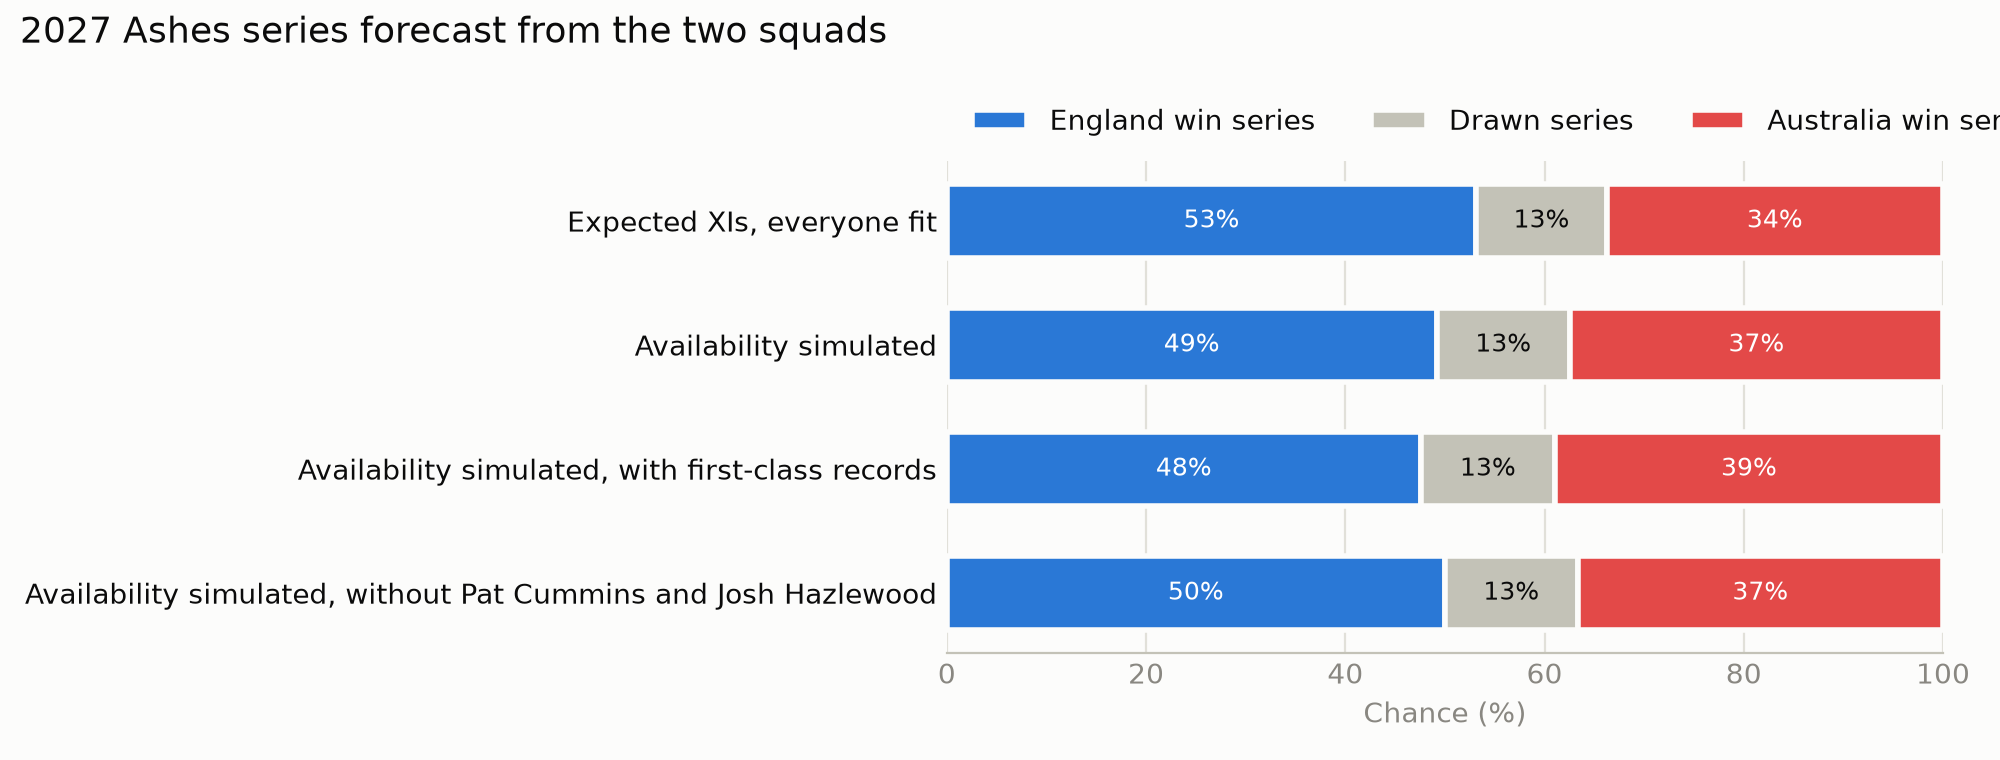
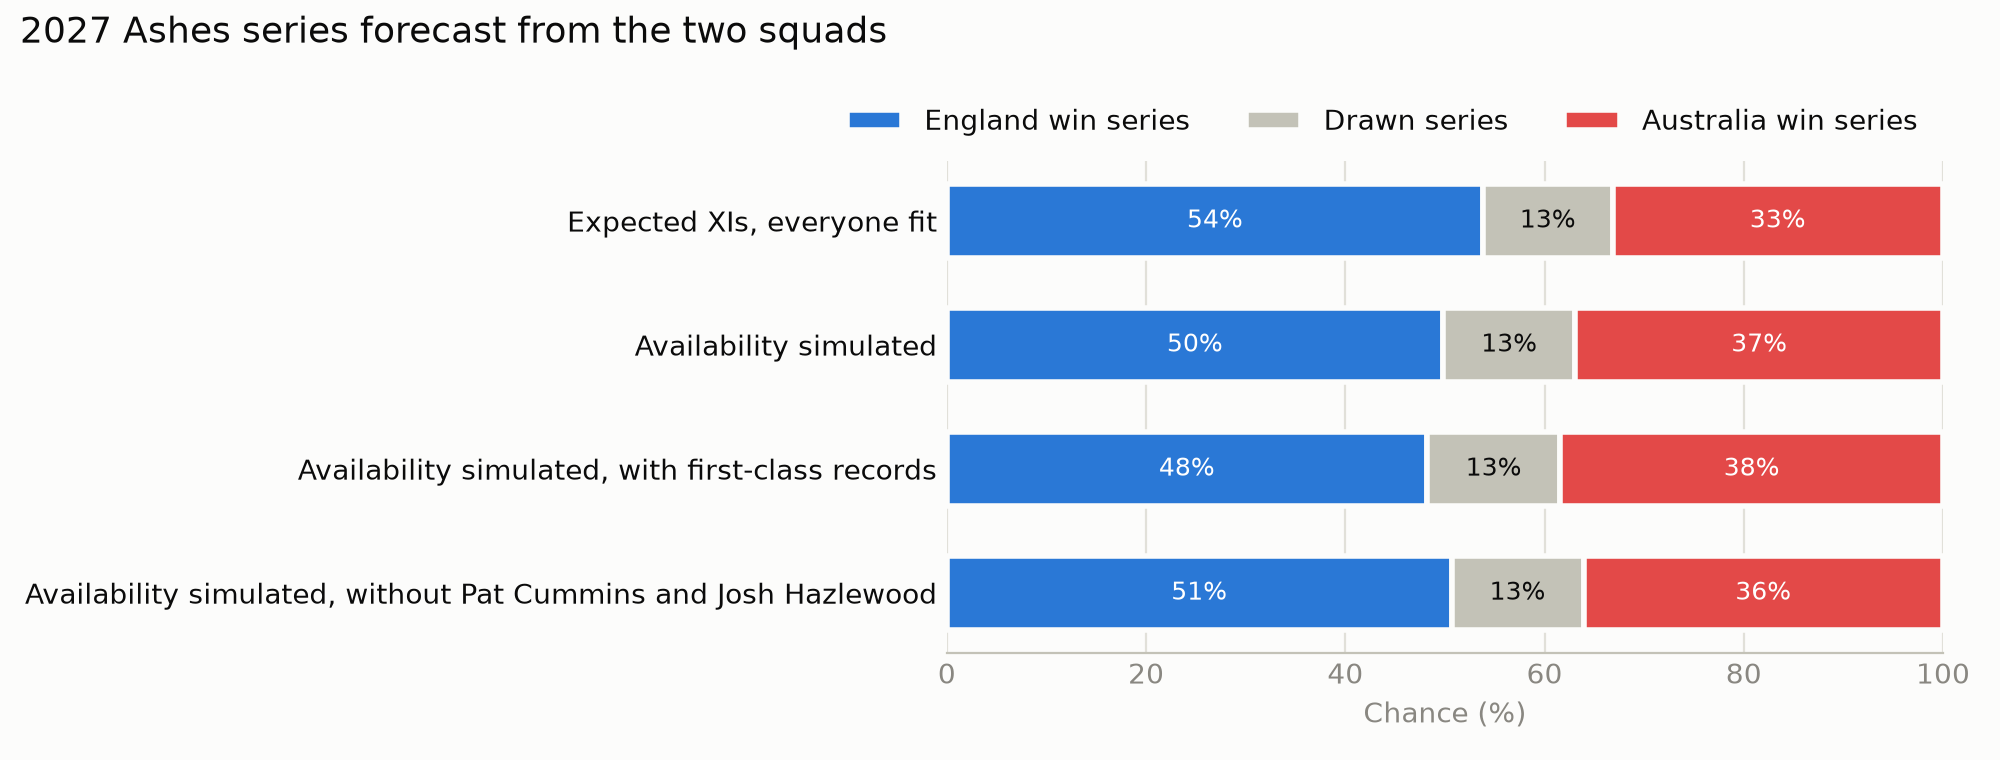
Charts remade after the tidy-up; squad numbers updated, with their sampling error

diff --git a/README.md b/README.md
@@ -25,7 +25,7 @@ through to every series result.
 England are slight favourites at home because the model's home advantage (0.63) is a little larger than the gap
 between the teams (Australia 1.33, England 0.78 on the model's scale).
 
-Building the forecast from the two squads, with each player's chance of being fit for each Test, gives England 49%,
+Building the forecast from the two squads, with each player's chance of being fit for each Test, gives England 50%,
 a drawn series 13% and Australia 37%. See "Players, squads and availability".
 
 ## The question and the approach
@@ -141,7 +141,7 @@ forecast uses the results-only model: the simpler of two versions that perform t
   (slope 0.17, 0.14 to 0.21), and England's peak around 2010–11 and Australia's dip around 2010–13 both show. The
   back-test shows this extra movement does not predict the next year's Tests any better.
 - **The bowling attack matters beyond team strength; the batting line-up does not.** Each 10 runs of bowling average
-  is worth 0.39 on the model's scale (0.03 to 0.76). Each 10 runs of batting average is worth 0.06 (−0.36 to 0.49).
+  is worth 0.40 on the model's scale (0.05 to 0.75). Each 10 runs of batting average is worth 0.06 (−0.37 to 0.50).
 
 ![Team strength over time](figures/team_strength.png)
 
@@ -177,15 +177,17 @@ first available player in the cover plan for his role.
 
 | Squad forecast | England win | Drawn series | Australia win | Australia retain the urn |
 | --- | --- | --- | --- | --- |
-| Expected XIs, everyone fit | 53% | 13% | 34% | 47% |
-| Availability simulated | 49% | 13% | 37% | 51% |
-| Availability simulated, with first-class records | 48% | 13% | 39% | 52% |
-| Availability simulated, without Cummins and Hazlewood | 50% | 13% | 37% | 50% |
+| Expected XIs, everyone fit | 54% | 13% | 33% | 46% |
+| Availability simulated | 50% | 13% | 37% | 50% |
+| Availability simulated, with first-class records | 48% | 13% | 38% | 52% |
+| Availability simulated, without Cummins and Hazlewood | 51% | 13% | 36% | 49% |
+
+Running it again moves these by up to about one point: the sampling error of 4,000 draws.
 
 - **England's fitness risk costs them about 4 points.** Mostly through Archer, who plays about three of the five Tests.
 - **Australia's depth protects them.** Boland and Neser are rated about as highly as Cummins and Hazlewood, so losing
   both for the whole series costs Australia about one point.
-- **First-class records cost England a point.** They rate Bethell's bowling well below his short Test record suggests.
+- **First-class records cost England nearly two points.** They rate Bethell's bowling well below his short Test record suggests.
 
 ![2027 Ashes series forecast from the two squads](figures/squad_forecast.png)
 

diff --git a/DECISIONS.md b/DECISIONS.md
@@ -553,3 +553,13 @@ will decide that.
 - England's fitness risk costs them about 4 points, mostly through Archer, who plays about 3 of 5 Tests.
 - Australia's depth protects them: Boland (21.0) and Neser (24.0) are rated as highly as Cummins (24.3) and Hazlewood (22.3).
 - Sampler: 9 divergences across 24 back-test fits, worst R-hat 1.012. The squad forecast fit had 0 divergences and a worst R-hat of 1.006.
+
+## 2026-11-11: Tidy-up after a full review
+
+- The 2019 and 2023 Ashes back-test chart now shows the results-only model, the version the forecast uses. Before, it showed the model with margins.
+- The legend on the forecast charts now lines up with the right-hand end of the bars. On the squad chart the long scenario names had pushed it off the page.
+- Removed an unused import and a misplaced comment. The code now passes ruff, the linter in the project's dev tools.
+- Moved the project rules into CONVENTIONS.md, next to this diary.
+- Re-ran everything. The headline forecast and the 2019 and 2023 back-test came out identical.
+- The squad forecast moved by up to one point, for example 49% to 50% for England with availability simulated. With about 1,000 effective draws, a series chance has a sampling error of about half a point, so this is noise, not a change. None of the findings change.
+- The README now uses the latest squad numbers and says they carry about a point of sampling error.
